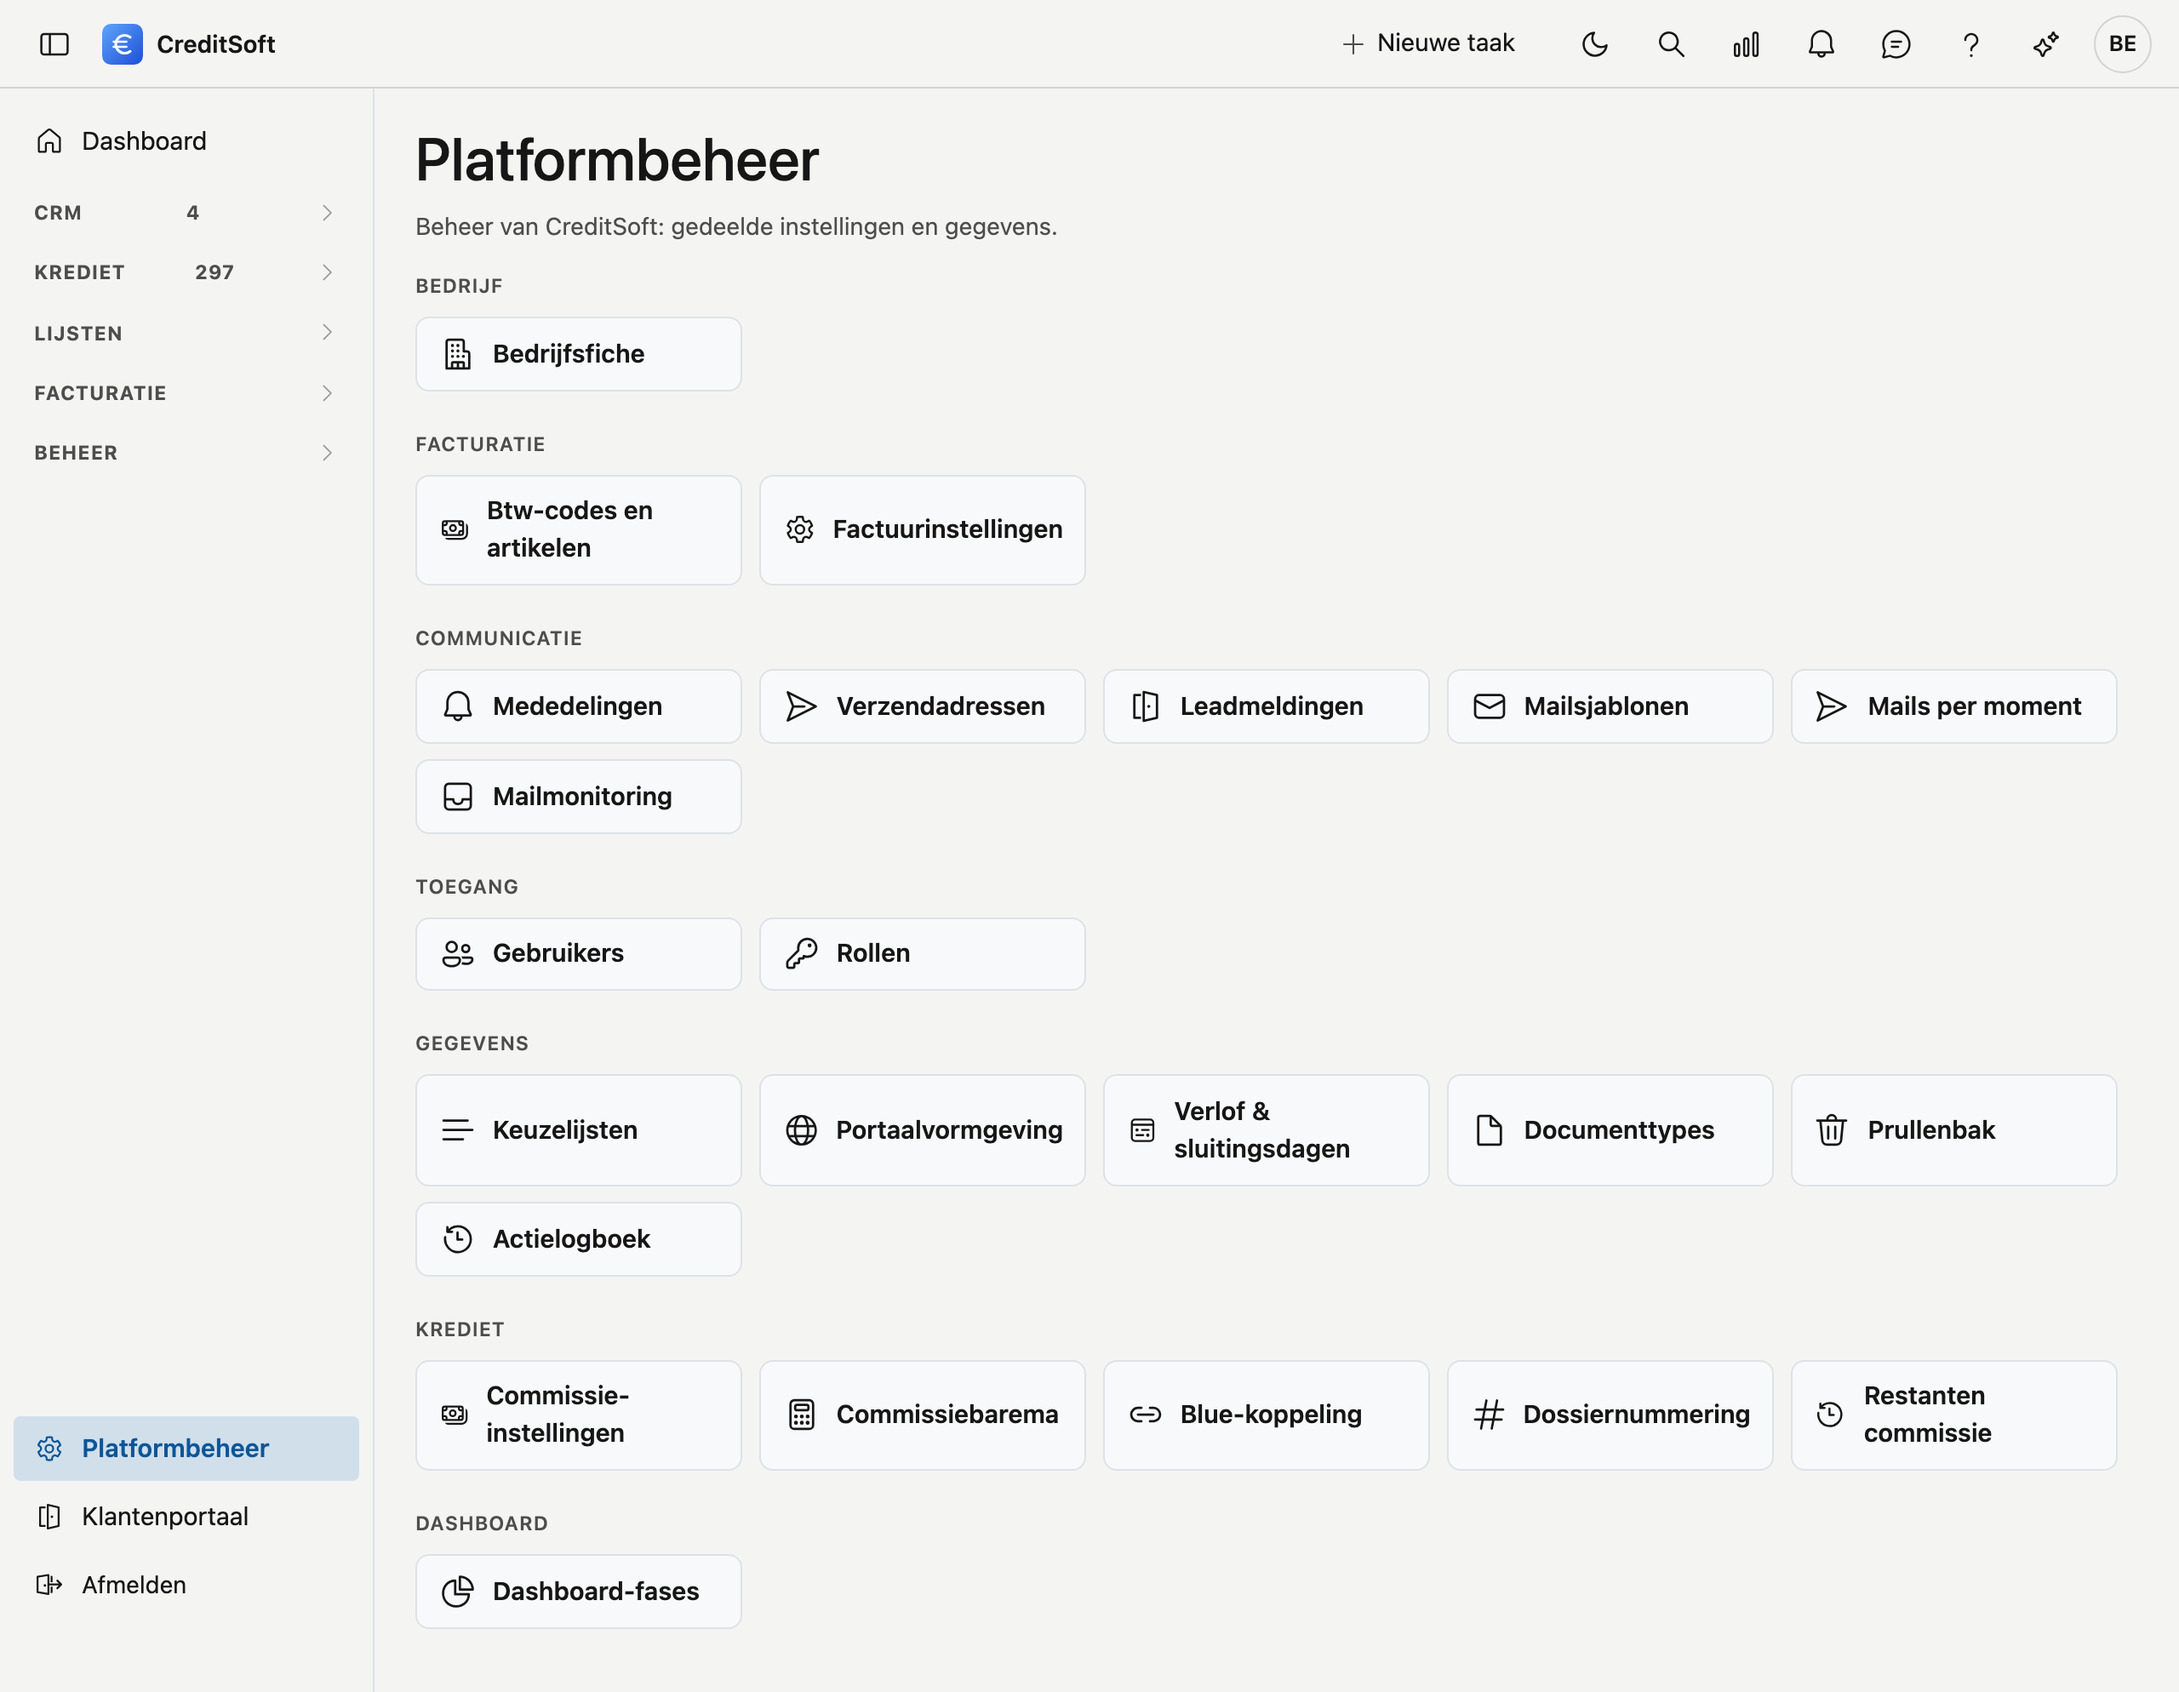
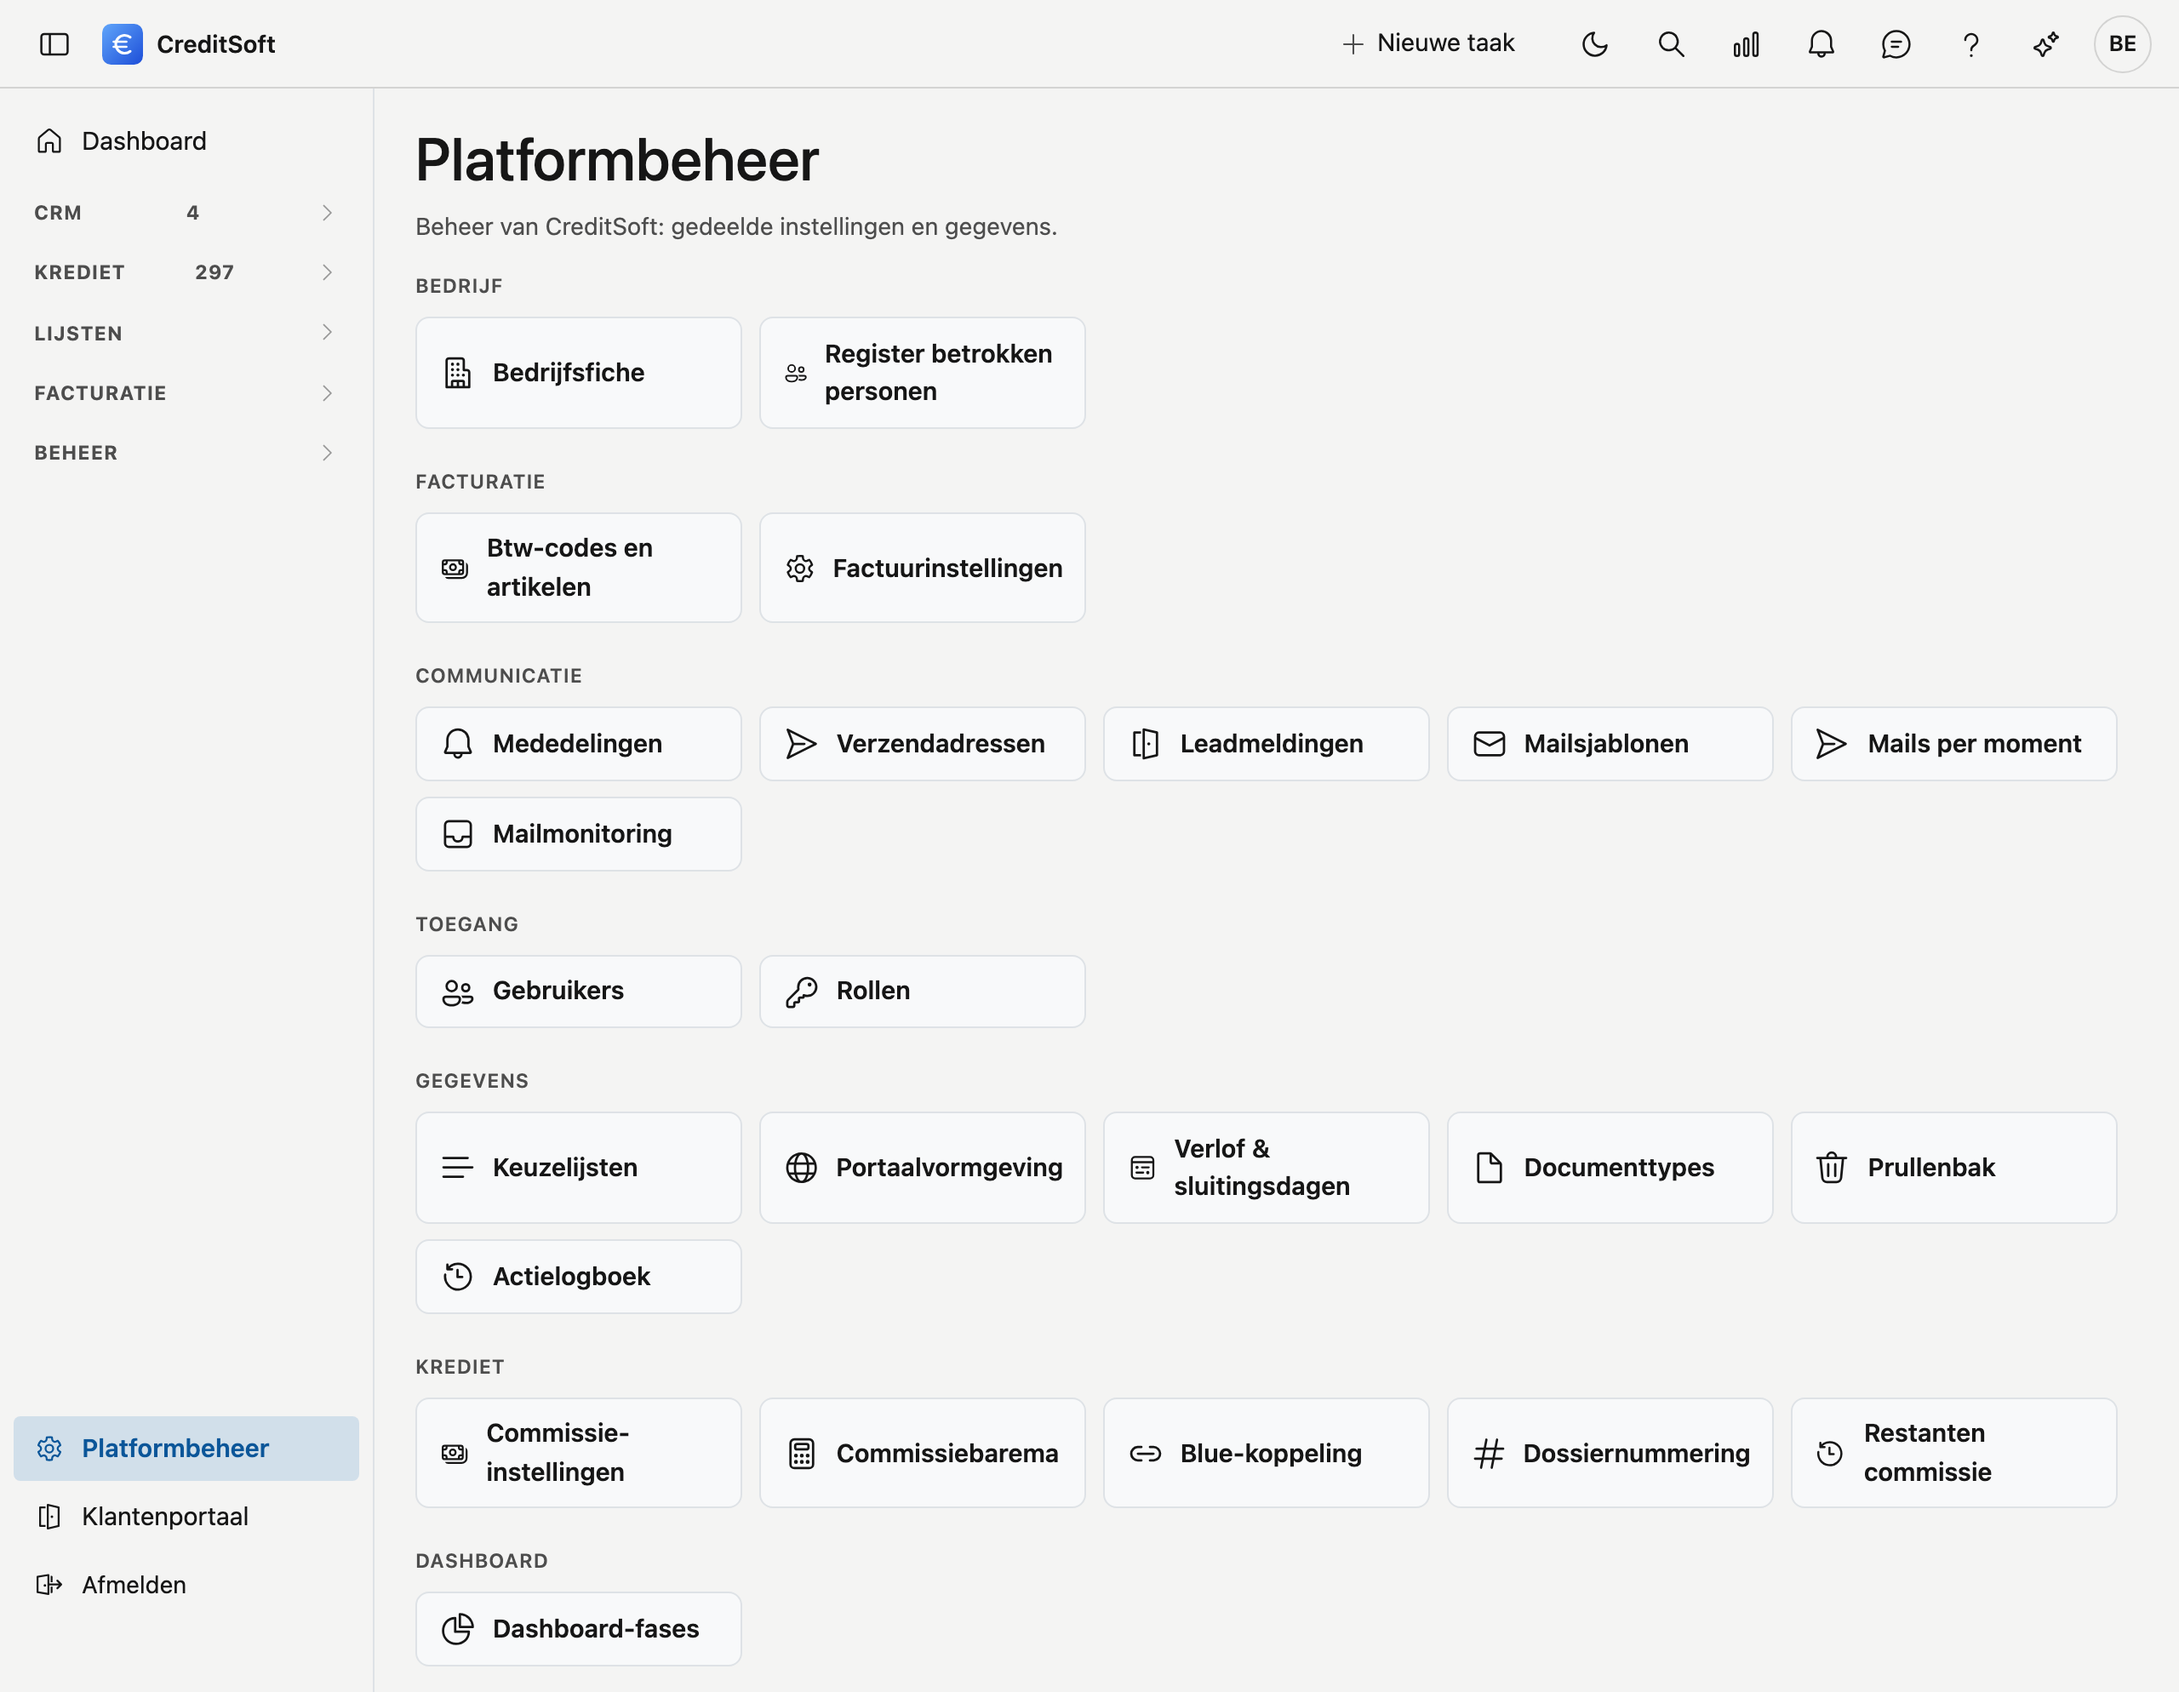
Handleiding 1.209.0: register van betrokken personen
Nieuwe pagina in NL en FR, twee beelden per taal en de Platformbeheer-hub met de
nieuwe tegel. tools/register-demo.mjs zet de fictieve gegevens op tenant_demo klaar.
Nog niet gepusht: gaat mee met de uitrol, docs eerst.

diff --git a/docs/administration/involved-persons.fr.md b/docs/administration/involved-persons.fr.md
@@ -1,0 +1,50 @@
+# Registre des personnes concernées
+
+En tant qu'intermédiaire de crédit, vous conservez pour chaque personne concernée le nom, les prénoms, la date de naissance, la fonction exercée et la date à laquelle cette fonction a débuté et, le cas échéant, a pris fin. Vous tenez ces données à la disposition de la FSMA. Ce registre vous permet de les tenir à jour et de les imprimer si nécessaire.
+
+!!! info "Qui doit y figurer ?"
+    C'est votre bureau qui décide : toute personne ayant une fonction renseignée figure au registre. En cas de doute sur les personnes concernées, adressez-vous à votre association professionnelle ou à la FSMA. CreditSoft n'en décide pas à votre place.
+
+## Ouvrir l'écran
+
+Dans la barre latérale, cliquez sur **Administration**, puis sur la tuile **Registre des personnes concernées** (sous *Entreprise*). Toute personne qui peut consulter la fiche d'entreprise voit aussi ce registre. Toute personne qui peut modifier la fiche d'entreprise peut aussi le remplir.
+
+## La liste
+
+![La liste Registre des personnes concernées avec le filtre Au registre, le bouton Imprimer le registre et, par personne, le nom, le prénom, la date de naissance, la fonction, le début, la fin et le statut. Une ligne est au statut Incomplet et, au-dessus, un message indique qu'il manque encore des données pour une personne.](../images/betrokken-personen-lijst-fr.png "Le registre, avec en haut les personnes incomplètes"){ .screenshot }
+
+Pour chaque personne, vous voyez la fonction actuelle avec son début et sa fin, ainsi qu'un statut :
+
+| Statut | Signification |
+|---|---|
+| **Au registre** | Une fonction existe, et le nom, le prénom, la date de naissance et la date de début sont renseignés. |
+| **Incomplet** | Une fonction existe, mais il manque encore un nom, un prénom, une date de naissance ou une date de début. |
+| **Hors registre** | Aucune fonction n'est renseignée. |
+
+Si le statut est suivi de *fonction en cours, pas de compte actif*, l'accès de cette personne a été retiré alors que sa fonction est toujours en cours. Si elle a arrêté, indiquez la date de fin. CreditSoft ne remplit pas cette date lui-même, car le jour où l'accès d'une personne a pris fin n'est pas toujours le jour où elle a cessé de travailler.
+
+Le filtre vous permet de choisir qui vous voyez : *Au registre* (avec les personnes incomplètes), *Incomplet*, *Hors registre* ou *Tout le monde*. Si personne ne figure encore au registre, vous voyez directement tout le monde.
+
+Double-cliquez sur une ligne pour ouvrir la fiche. La flèche en début de ligne, Ctrl-clic ou le bouton central de la souris ouvrent la fiche dans un nouvel onglet.
+
+## Remplir une personne
+
+Sur la fiche, indiquez le **nom**, le **prénom** et la **date de naissance**, puis cliquez sur **Enregistrer**. Ces données figurent uniquement dans ce registre et sur l'impression. Le nom ne change pas la façon dont la personne s'appelle ailleurs dans CreditSoft.
+
+Si une personne sans compte doit figurer au registre, cliquez dans la liste sur **Nouvelle personne**. Cette personne ne peut pas se connecter et ne figure pas dans les listes de choix des collaborateurs.
+
+## Ajouter une fonction
+
+![La fiche d'une personne concernée avec le nom, le prénom et la date de naissance et, en dessous, la liste Fonctions avec deux lignes : une fonction terminée avec un début et une fin, et une fonction en cours avec uniquement un début.](../images/betrokken-personen-fiche-fr.png "Une personne avec une fonction passée et une fonction en cours"){ .screenshot }
+
+Cliquez sur **+ Ajouter une fonction**, indiquez la **fonction** et la **date de début**, puis cliquez sur **Enregistrer**. Une fonction est enregistrée immédiatement. Pour une nouvelle personne, enregistrez d'abord la fiche, vous pourrez ensuite ajouter une fonction.
+
+- **Une personne change de fonction :** indiquez la date de fin sur l'ancienne ligne et ajoutez une nouvelle ligne. Les deux fonctions restent ainsi au registre.
+- **Une personne arrête :** ouvrez la ligne et indiquez la date de fin. La personne reste au registre.
+- **Une ligne a été saisie par erreur :** ouvrez la ligne et cliquez sur **Supprimer**.
+
+## Imprimer le registre
+
+Dans la liste, cliquez sur **Imprimer le registre**. Vous obtenez un aperçu que vous pouvez télécharger, avec en haut votre bureau et votre numéro FSMA repris de la [fiche d'entreprise](company-profile.md). Chaque fonction figure sur sa propre ligne, y compris celles des personnes parties. Les personnes incomplètes y figurent aussi, avec les champs vides visibles.
+
+L'impression est inscrite dans le journal des actions, ce qui vous permet de vérifier qui a imprimé le registre et quand.

diff --git a/docs/administration/involved-persons.md b/docs/administration/involved-persons.md
@@ -1,0 +1,50 @@
+# Register betrokken personen
+
+Als kredietbemiddelaar bewaart u voor elke betrokken persoon de naam, de voornamen, de geboortedatum, de uitgeoefende functie en de datum waarop die functie begon en eventueel eindigde. U houdt die gegevens ter beschikking van de FSMA. In dit register houdt u ze bij, en u drukt ze af wanneer het nodig is.
+
+!!! info "Wie hoort erin?"
+    Dat beslist uw kantoor: wie een functie ingevuld heeft, staat in het register. Twijfelt u wie als betrokken persoon telt, vraag het dan aan uw beroepsvereniging of de FSMA. CreditSoft bepaalt dat niet voor u.
+
+## Het scherm openen
+
+Klik in de zijbalk op **Platformbeheer** en daarna op de tegel **Register betrokken personen** (onder *Bedrijf*). Wie de Bedrijfsfiche mag bekijken, ziet ook dit register. Wie de Bedrijfsfiche mag wijzigen, kan het ook invullen.
+
+## De lijst
+
+![De lijst Register betrokken personen met de filter In het register, de knop Register afdrukken en per persoon de naam, voornaam, geboortedatum, functie, begin, einde en status. Een regel staat op Onvolledig, en daarboven staat de melding dat er bij een persoon nog gegevens ontbreken.](../images/betrokken-personen-lijst.png "Het register, met bovenaan wie nog onvolledig is"){ .screenshot }
+
+Per persoon ziet u de huidige functie met haar begin en einde, en een status:
+
+| Status | Wat het betekent |
+|---|---|
+| **In het register** | Er is een functie, en naam, voornaam, geboortedatum en begindatum zijn ingevuld. |
+| **Onvolledig** | Er is een functie, maar er ontbreekt nog een naam, voornaam, geboortedatum of begindatum. |
+| **Niet in het register** | Er is geen functie ingevuld. |
+
+Staat er achter de status *functie loopt, geen actief account*, dan is de toegang van die persoon ingetrokken terwijl zijn functie nog loopt. Is hij gestopt, vul dan de einddatum in. CreditSoft vult die datum niet zelf in, want de dag waarop iemands toegang stopte, is niet altijd de dag waarop hij stopte met werken.
+
+Met de filter kiest u wie u ziet: *In het register* (met wie onvolledig is), *Onvolledig*, *Niet in het register* of *Iedereen*. Staat er nog niemand in het register, dan ziet u meteen iedereen.
+
+Dubbelklik een rij om de fiche te openen. Met het pijltje vooraan, Ctrl-klik of de middelste muisknop opent de fiche in een nieuw tabblad.
+
+## Een persoon invullen
+
+Op de fiche vult u de **naam**, de **voornaam** en de **geboortedatum** in, en u klikt op **Bewaren**. Deze gegevens staan enkel in dit register en op de afdruk. De naam verandert niet hoe iemand elders in CreditSoft heet.
+
+Hoort iemand in het register die geen account heeft, klik dan in de lijst op **Nieuwe persoon**. Die persoon kan zich niet aanmelden en staat niet in de keuzelijsten met medewerkers.
+
+## Een functie toevoegen
+
+![De fiche van een betrokken persoon met de naam, voornaam en geboortedatum, en daaronder de lijst Functies met twee regels: een beëindigde functie met een begin en een einde, en een lopende functie met enkel een begin.](../images/betrokken-personen-fiche.png "Een persoon met een vroegere en een lopende functie"){ .screenshot }
+
+Klik op **+ Functie toevoegen**, vul de **functie** en de **begindatum** in, en klik op **Bewaren**. Een functie wordt meteen bewaard. Bij een nieuwe persoon bewaart u eerst de fiche, daarna kunt u een functie toevoegen.
+
+- **Iemand verandert van functie:** vul de einddatum in op de oude regel en voeg een nieuwe regel toe. Zo blijven beide functies in het register staan.
+- **Iemand stopt:** open de regel en vul de einddatum in. De persoon blijft in het register staan.
+- **Een regel is verkeerd ingevoerd:** open de regel en klik op **Verwijderen**.
+
+## Het register afdrukken
+
+Klik in de lijst op **Register afdrukken**. U krijgt een voorbeeld dat u kunt downloaden, met bovenaan uw kantoor en uw FSMA-nummer uit de [Bedrijfsfiche](company-profile.md). Elke functie staat op een eigen regel, ook die van wie vertrokken is. Wie onvolledig is, staat er ook op, met de lege velden zichtbaar.
+
+De afdruk komt in het actielogboek, zodat u kunt nagaan wie het register wanneer afdrukte.
